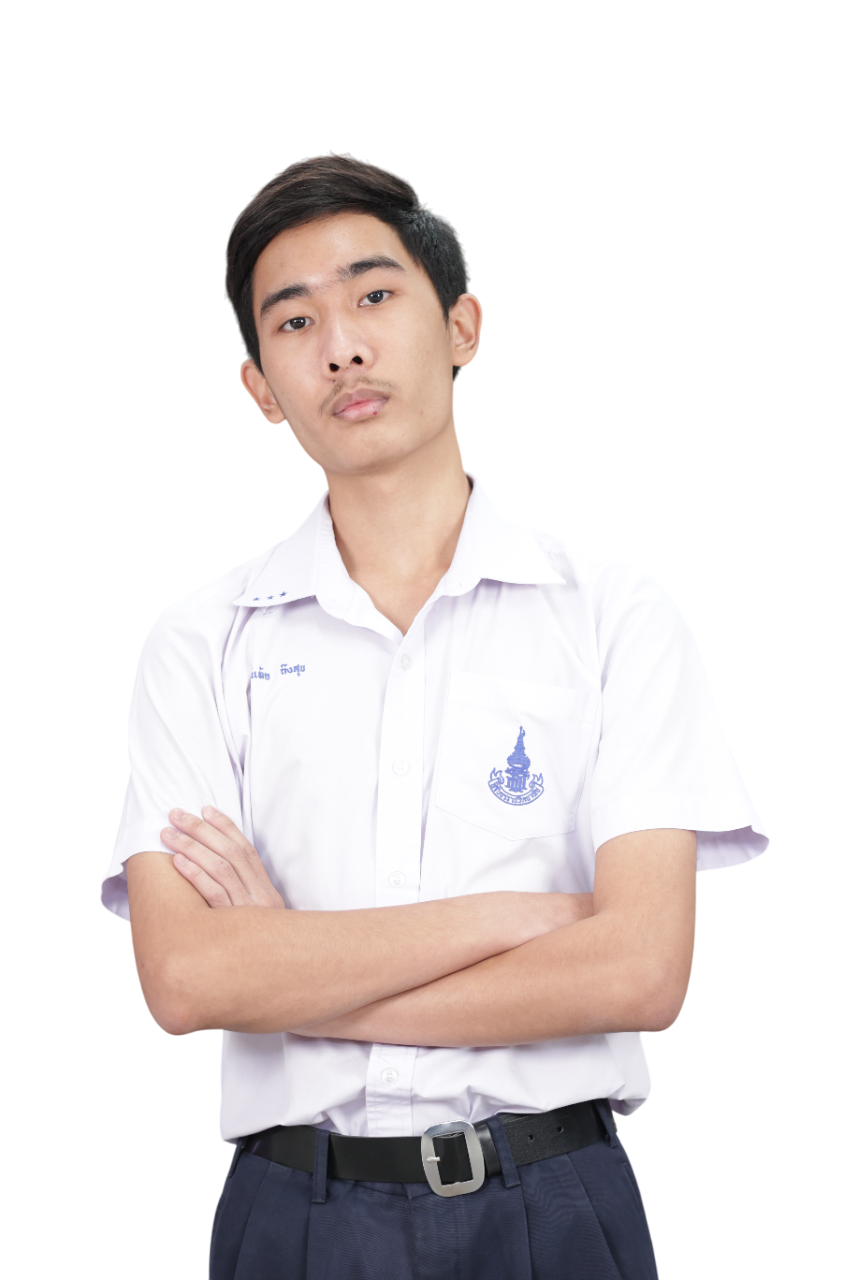
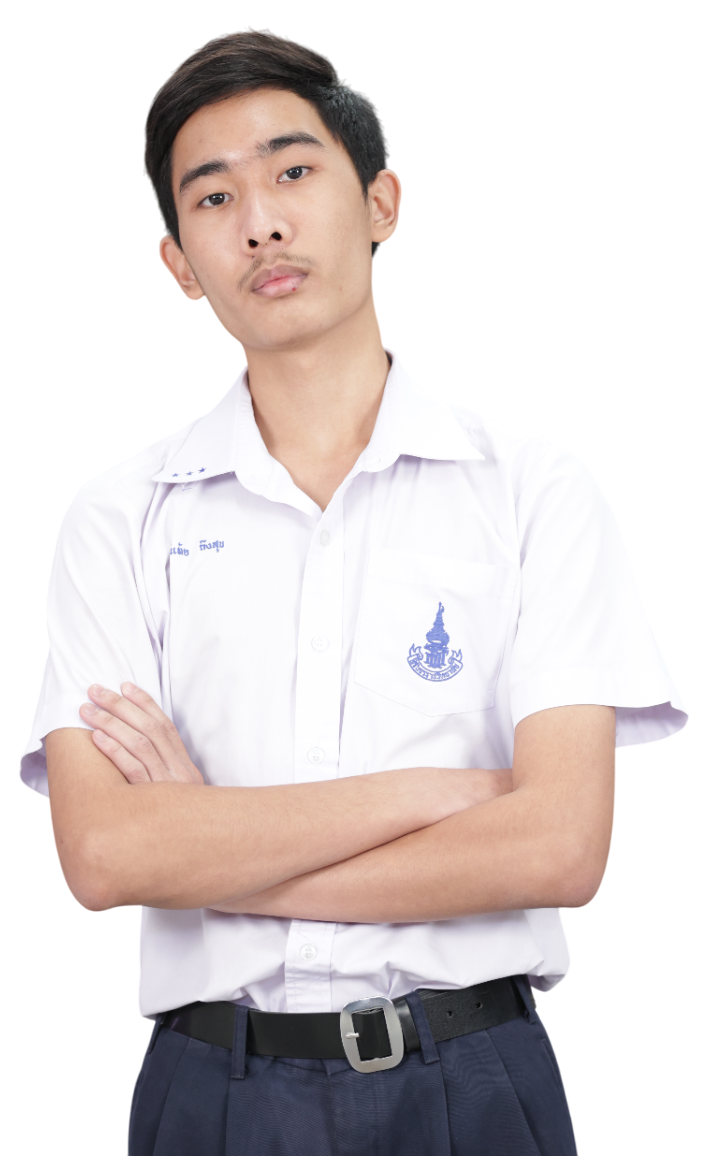
Remake most of the page

diff --git a/style.css b/style.css
@@ -1,6 +1,7 @@
 @import url('https://fonts.googleapis.com/css2?family=Montserrat:ital,wght@0,100..900;1,100..900&display=swap');
 
 * {
+    /* border: 1px solid black; */
     padding: 0;
     margin: 0;
     box-sizing: border-box;
@@ -10,84 +11,211 @@
     color: white;
 }
 
-header {
-    height: 60px;
-    width: 100vw;
-    padding: 0 25px;
-    background-color: #091b29;
+/* div {
+    border: 2px solid red;
+} */
+
+.left-side, .right-side {
+    margin: 0 25px;
+}
+
+html, body {
+    height: 100%;
+    min-width: fit-content;
+}
+
+body {
     display: flex;
+    flex-direction: column;
+}
+
+header {
+    display: flex;
+    height: 8%;
+    min-height: 50px;
+    width: 100%;
+    background-color: #091b29;
     justify-content: space-between;
     align-items: center;
+    transition: background-color 0.4s;
 
-    .left-side {
-        .myname {
-            font-size: xx-large;
+    & .left-side {
+        & .myname {
+            font-size: 36px;
+            cursor: default;
+            transition: font-size 1s ease-out;
+        }
+
+        & .myname:hover {
+            font-size: 38px;
         }
     }
 
-    .right-side {
+    & .right-side {
         display: flex;
-        width: 380px;
-        justify-content: space-between;
+        flex-wrap: nowrap;
         
-        a {
+        & a {
             padding: 10px;
+            border-radius: 5px;
             white-space: nowrap;
             font-size: 16px;
+            transition: color 0.1s, font-size 0.1s;
         }
 
-        a:Hover {
+        & a:hover {
             color: #007eaa;
+            font-size: 17px;
+        }
+
+        & a:active {
+            color: white;
+            font-size: 15px;
         }
     }
+}
+
+header:hover {
+    background-color: #071520;
 }
 
 main {
-    height: 80vh;
-    width: 100vw;
+    display: flex;
+    flex-direction: row;
+    align-self: flex-end;
+    width: 100%;
+    flex: 1;
     background-color: #091b29;
+
+    & .myself {
+        background-color: #0d2a3d;
+        object-fit: contain;
+        border-radius: 10px;
+        margin: auto 5%;
+        min-width: 200px;
+        max-width: 20%;
+        max-height: 90%;
+    }
+
+    & .introduction {
+        flex: 1;
+        min-width: 328px;
+        margin: auto 5%;
+
+        & .greet {
+            font-size: 20px;
+            color: #aaaaaa;
+        }
+
+        & .name {
+            font-size: 50px;
+            font-weight: bold;
+        }
+
+        & .role {
+            font-size: 20px;
+            color: #00bbc2;
+        }
+
+        & .description {
+            font-size: 16px;
+            color: #aaaaaa;
+            margin: 20px 0;
+        }
+
+        & .buttons {
+            & .works_button {
+                transition: background-color 0.2s;
+                margin: 0 10px 0 0;
+                background-color: #00bbc2;
+                border: none;
+                border-radius: 5px;
+                font-size: 16px;
+                padding: 10px 30px;
+                cursor: pointer;
+            }
+            
+            & .works_button:hover {
+                background-color: #009ca1;
+            }
+
+            & .contact_button {
+                transition: border 0.1s, padding 0.1s;
+                background-color: #091b29;
+                border: 1px solid #444444;
+                border-radius: 5px;
+                font-size: 16px;
+                padding: 9px 30px;
+                cursor: pointer;
+            }
+
+            & .contact_button:hover {
+                border: 2px solid #ffffff;
+                padding: 8px 30px;
+            }
+        }
+    }
+}
+
+@media screen and (max-width: 604px) {
+
 }
 
 footer {
-    height: 60px;
-    width: 100vw;
-    padding: 0 25px;
-    background-color: #044966;
     display: flex;
+    height: 8%;
+    min-height: 50px;
+    width: 100%;
+    background-color: #044966;
     justify-content: space-between;
     align-items: center;
 
-    .left-side {
+    & .left-side {
         display: flex;
-        justify-content: space-between;
-        height: 100%;
         align-items: center;
+        height: 80%;
 
-        a {
-            display: flex;
-            border-radius: 5px;
+        & a {
+            border-radius: 5%;
             padding: 5px;
-            height: 80%;
+            margin: 0 1px;
+            height: 100%;
+            transition: background-color 0.2s, border-radius 0.1s, height 0.1s, transform 0.1s, border 0.1s;
 
-            img {
+            & img {
                 height: 100%;
-                flex: 1;
+                white-space: nowrap;
             }
         }
 
-        a:Hover {
+        & a:hover {
             background-color: #0a7cad;
+            transform: rotate(15deg);
+            border-radius: 50%;
+            height: 100;
+        }
+
+        & a:active {
+            border: 3px solid white;
+            height: 90%;
         }
     }
 
-    .right-side {
+    & .right-side {
         display: flex;
-        justify-content: space-between;
-        width: 300px;
+        height: 80%;
+        align-items: center;
 
-        p {
+        & span {
+            padding: 0 10px;
+            text-align: center;
             font-size: 16px;
-            white-space: nowrap;
+            transition: font-size 1s ease-out;
+            cursor: default;
+        }
+
+        & span:hover {
+            font-size: 17px;
         }
     }
 }

diff --git a/index.html b/index.html
@@ -4,12 +4,12 @@
         <meta charset="UTF-8">
         <meta name="viewport" content="width=device-width, initial-scale=1.0">
         <link rel="stylesheet" href="style.css">
-        <title>Main</title>
+        <title>Anothai Tuengsuk</title>
     </head>
     <body>
         <header>
             <div class="left-side">
-                <p class="myname">Anothai</a>
+                <span class="myname">Anothai</a>
             </div>
             
             <nav class="right-side">
@@ -21,27 +21,45 @@
         </header>
 
         <main>
-            <!-- <img src="img/confident.png" class="myself" alt="My confident picture"> -->
+            <div class="introduction">
+                <div class="greet">
+                    Hello, I'm
+                </div>
+                <div class="name">
+                    Anothai Tuengsuk
+                </div>
+                <div class="role">
+                    Developer & Creator
+                </div>
+                <div class="description">
+                    I mainly work on software development. And I'm passionate in game & web development.
+                </div>
+                <div class="buttons">
+                    <button class="works_button">My works</button>
+                    <button class="contact_button">Contact me</button>
+                </div>
+            </div>
+            <img src="img/confident.png" class="myself" alt="My picture">
         </main>
 
         <footer>
             <nav class="left-side">
                 <a href="https://www.facebook.com/fiws.x.no.thay.thung.sukh" class="facebook" target="_blank">
-                    <img src="img/facebook icon.png">
+                    <img src="img/facebook icon.png" alt="facebook">
                 </a>
                 <a href="https://www.instagram.com/anothai_tuengsuk/" class="instagram" target="_blank">
-                    <img src="img/instagram icon.png">
+                    <img src="img/instagram icon.png" alt="instagram">
                 </a>
                 <a href="https://github.com/Tuengsuk" class="github" target="_blank">
-                    <img src="img/github icon.png">
+                    <img src="img/github icon.png" alt="github">
                 </a>
                 <a href="https://monkeytype.com/profile/Tuengsuk" class="monkeytype" target="_blank">
-                    <img src="img/monkeytype icon.png">
+                    <img src="img/monkeytype icon.png" alt="monkeytype">
                 </a>
             </nav>
             <div class="right-side">
-                <p class="created">created: 6/9/2025</p>
-                <p class="updated">updated: 6/9/2025</p>
+                <span class="created">created: 6/9/2025</span>
+                <span class="updated">updated: 1/1/2026</span>
             </div>
         </footer>
     </body>

diff --git a/My journeys.html b/My journeys.html
@@ -1,7 +1,7 @@
 <!DOCTYPE html>
 <html>
     <head>
-        <title>Test</title>
+        <title>My journeys</title>
     </head>
     <body>
         
